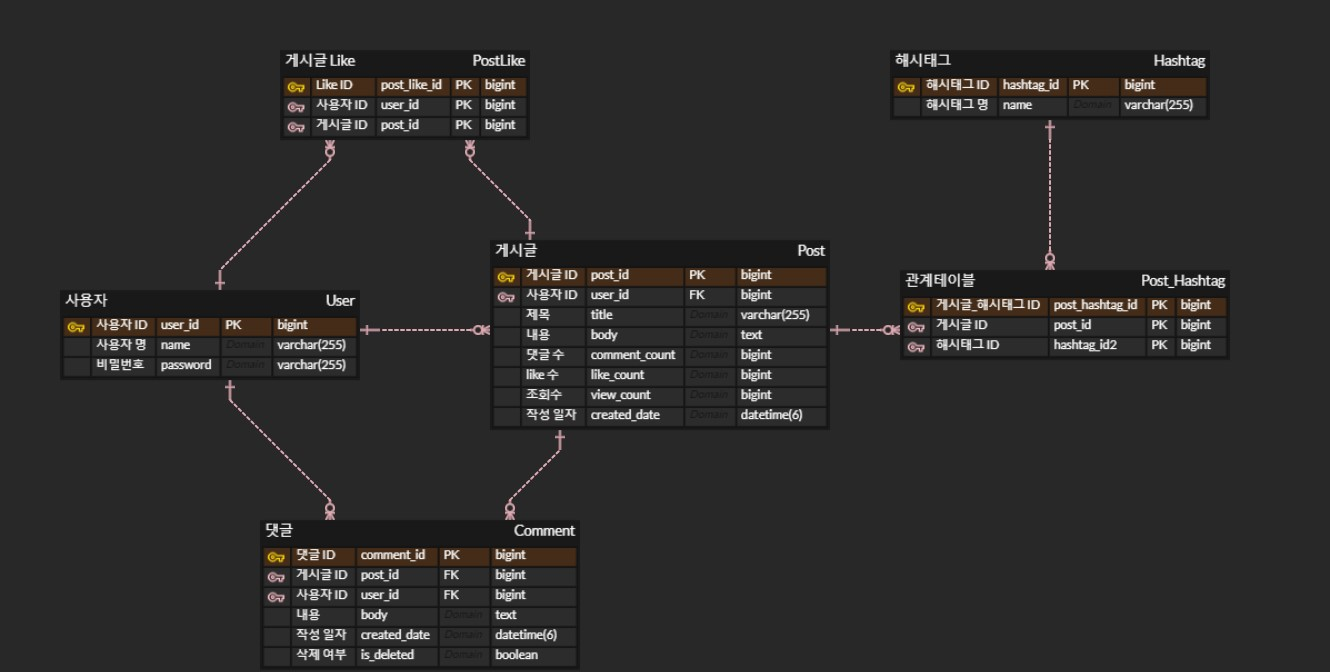
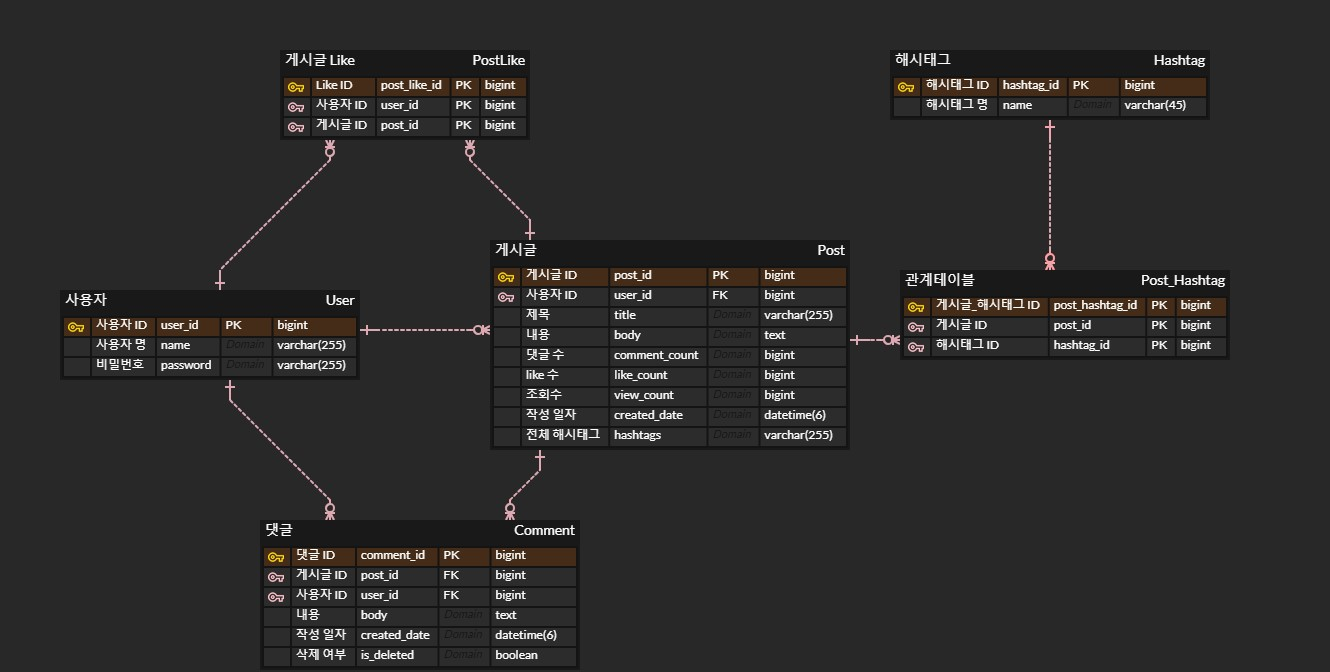
[docs] : 리드미 내용 추가

diff --git a/ReadMe.md b/ReadMe.md
@@ -1,5 +1,19 @@
 # 게시판 구현하기 프로젝트
 
+## 개발 환경
+
+Java 17 · SpringBoot 3.1.2 · MySQL 8.0 · Spring Data JPA · Lombok · Querydsl · Thymeleaf · Axios
+
+## 프로젝트 실행 가이드
+
+
+1. mysql에 접속한 뒤, [ddl.sql](https://github.com/inkyu-yoon/nts-YoonInKyu/blob/main/ddl.sql) 파일을 실행시킵니다.
+2. 스키마 명은 `nts-inkyu` 로 생성됩니다.
+3. [application.yml](https://github.com/inkyu-yoon/nts-YoonInKyu/blob/main/src/main/resources/application.yml) 파일의 `password` 부분에 본인이 사용하는 mysql password를 입력합니다.
+4. 프로젝트를 실행한 뒤, [접속](http://localhost:8080/)합니다.
+5. [Swagger 문서](http://localhost:8080/swagger-ui/index.html#/)
+
+
 ## 요구 사항
 
 화면 구성 제약은 없으며, 요구 사항 중 최소 10가지 기능 을 완료해주세요.
@@ -25,7 +39,7 @@
 
 ## ERD
 
-![erd](erd.png)
+![img.png](erd.png)
 
 ### 📌 erd 설계 과정
 
@@ -41,7 +55,13 @@
 
 또한, 요구사항에 따라 `제목` · `내용` · `작성일자` · `조회수` 를 표시해야하므로 해당 칼럼들이 필요합니다.
 
-요구사항에 의하면 `댓글 수` 와 `조회수` 를 표시해야하는데, `Post`와 연관 관계를 이루는 `Comment` 혹은 `Like` 의 개수를 count 하는 질의를 매번 날리기 보다는 칼럼으로서 갖고 있으면 성능에 더 유리하다고 판단되어 추가했습니다.
+요구사항에 의하면 `댓글 수` 와 `조회수` 를 표시해야하는데, 
+
+`Post`와 연관 관계를 이루는 `Comment` 혹은 `Like` 의 개수를 count 하는 질의를 매번 날리기 보다는 
+
+칼럼으로서 갖고 있으면 성능에 더 유리하다고 판단되어 추가했습니다.
+
+또한, 게시글 목록에 해시태그를 보여주기 위해, 해시태그를 하나의 문자열로 결합하여 보관하는 문자열 속성 hashtags를 추가했습니다.
 
 #### 3. Comment
 
@@ -68,3 +88,57 @@
 `Hashtag` 와 `Post` 관계는 다대다 관계이므로 관계테이블을 두어 1대다 관계로 해소하였습니다.
 
 요구사항에 따르면 `Hashtag`의 수는 최대 5개로 가변적이며 재 사용될 수 있음을 고려하여 엔티티를 분리하였습니다.
+
+
+## 시연
+
+### 사용자 등록
+
+![사용자등록](사용자등록.gif)
+
+사용자 등록 버튼을 클릭하면 사용자 정보를 등록할 수 있으며, 이미 등록된 사용자명으로 요청은 불가합니다.
+
+### 게시글 등록
+
+
+![게시글등록](게시글등록.gif)
+
+등록된 사용자는 게시글 등록 버튼을 눌러 게시글을 작성할 수 있으며, 태그를 입력할 수 있는 칸은 최대 5칸이 생성됩니다.
+
+### 게시글 목록 글 개수 설정 및 검색 기능
+
+![개수설정및검색](개수설정및검색.gif)
+
+게시글 목록 화면에서 불러오는 게시글을 10개 또는 20개 단위로 선택할 수 있습니다.
+
+게시글 제목, 내용, 작성자명, 해시태그로 검색할 수 있으며
+
+게시글 제목, 내용, 작성자명은 검색한 키워드가 포함되는 경우가 반환되며
+
+해시태그는 완전히 일치하는 게시글만 반환됩니다.
+
+### 게시글 상세 조회 및 게시글 수정 및 삭제
+
+![게시글상세](게시글상세.gif)
+
+게시글 목록에서 제목을 클릭하면 상세 화면을 확인할 수 있습니다.
+
+상세 화면에서 수정 또는 삭제를 할 수 있고, 작성자의 비밀번호를 입력하는 경우에만 가능합니다.
+
+### 댓글 조회, 등록 및 삭제
+
+![댓글기능](댓글기능.gif)
+
+등록된 사용자는 댓글을 입력할 수 있으며, 본인의 댓글은 비밀번호를 입력하여 삭제할 수 있습니다.
+
+삭제된 댓글은 `삭제된 댓글입니다.` 표시로 바뀝니다.
+
+댓글은 기본적으로 5건을 보여주고 더보기 버튼을 누른 경우 5건을 더 보여줍니다.
+
+더 보여줄 댓글이 없는 경우 사라집니다.
+
+### 좋아요 기능
+
+![좋아요기능](좋아요기능.gif)
+
+등록된 사용자는 게시글 좋아요를 할 수 있으며, 이미 좋아요를 눌렀던 사용자는 입력했던 좋아요가 취소됩니다.
